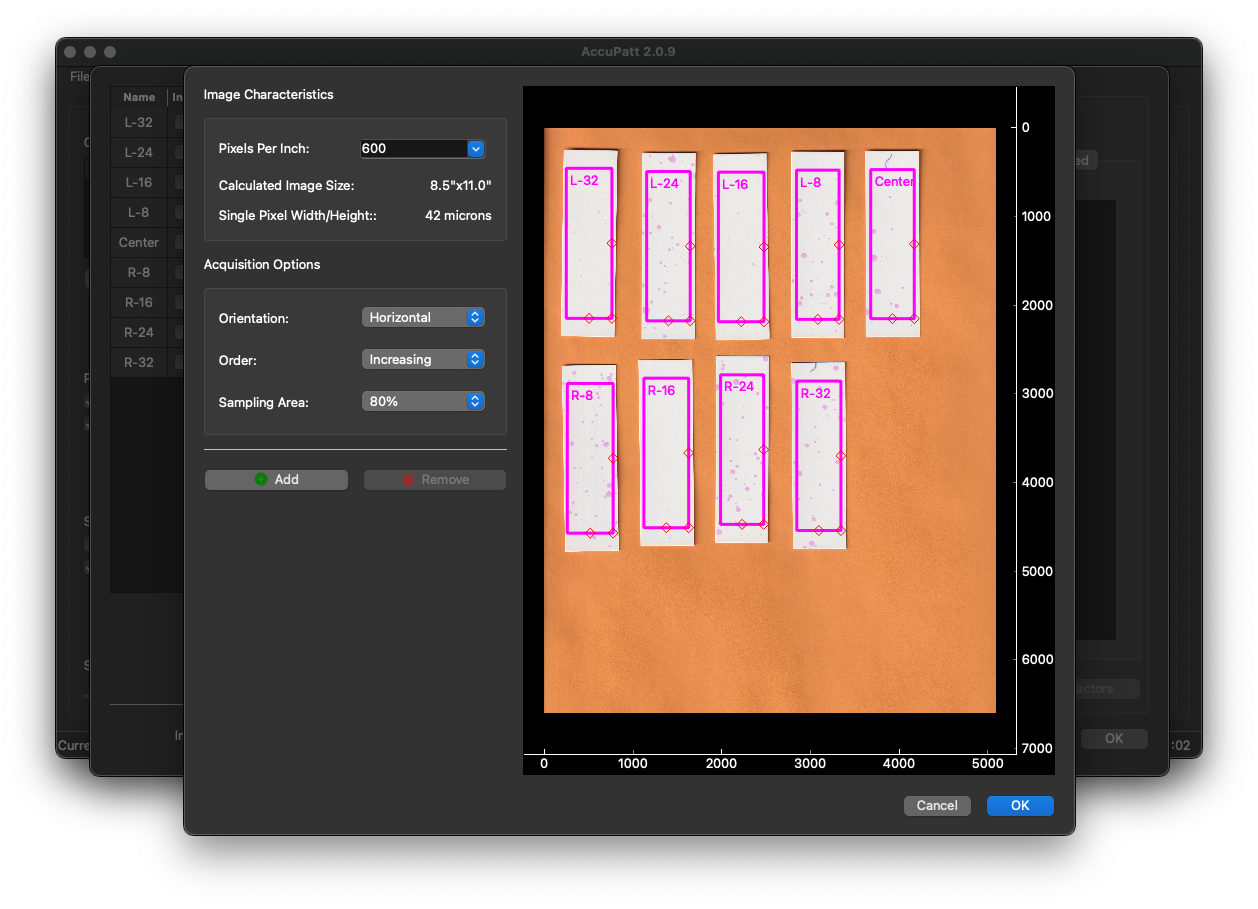
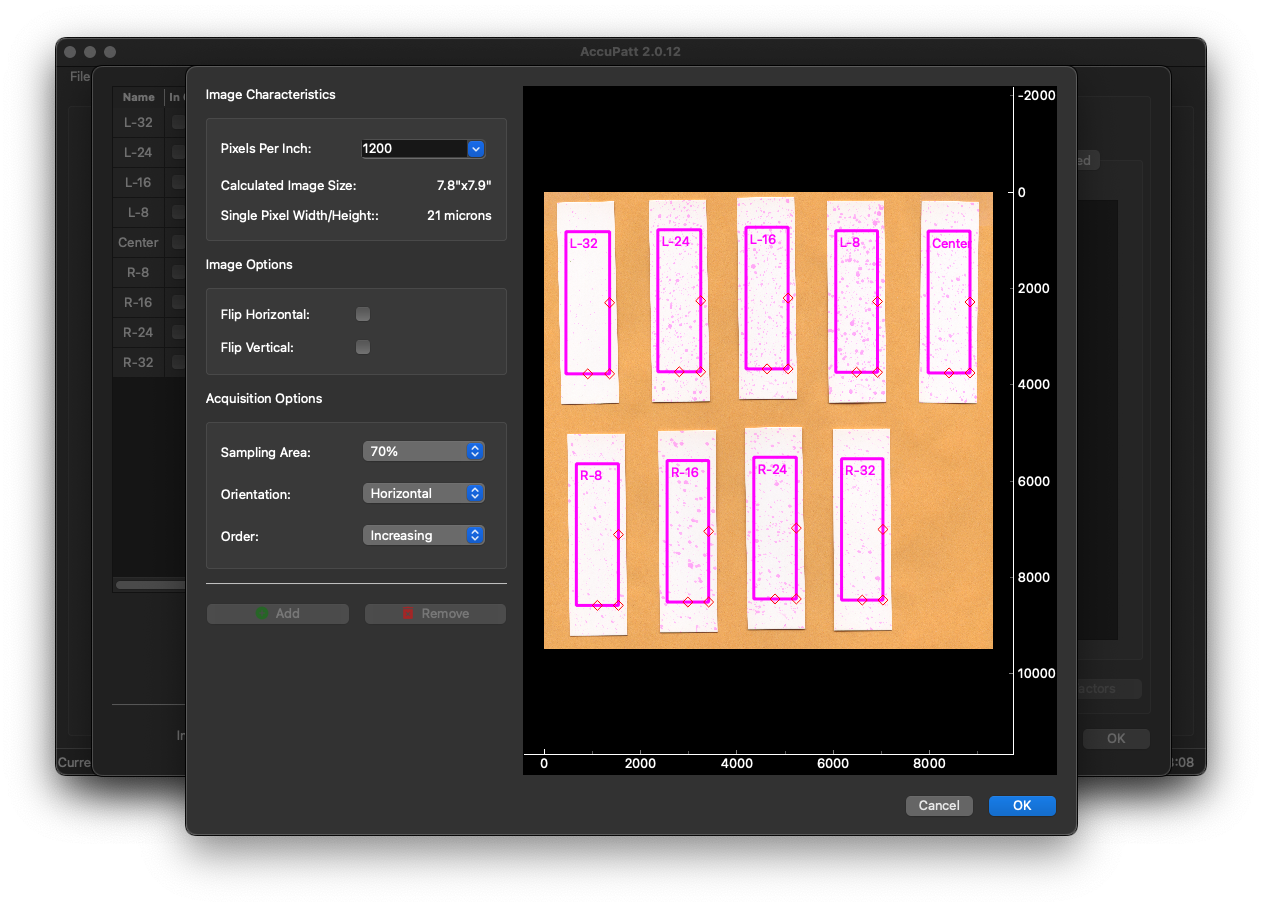
bump release 2.0.13, update user manual

diff --git a/user_manual/accupatt_2_user_manual.tex b/user_manual/accupatt_2_user_manual.tex
@@ -104,7 +104,7 @@
 
     \subsubsection{Pass Observables}
     In addition to \textbf{Application Info}, which is collected on a per-series basis, there is some observable data which is typically collected on a per-pass basis. These are frequently referred to here and in the program as \textbf{Pass Observables} since they consist solely of measured values obtained at the time of the application.\par
-    These values can be entered in several locations for the convenience of the analyst. Typically, they are entered from either the \textbf{Capture/Edit String} winodw or the \textbf{Card Manager} window for any individual pass. Alternatively, choosing \textbf{Options $\rightarrow$ Pass Manager} from the menu will open the \textbf{Pass Manager} window (Figure~\ref{fig:pass_manager}) which contains a table with rows for each pass and columns for each pass observable parameter. In addition to the editable fields for pass observables, the pass name itself may be changed here. There are also checkboxes to facilitate the inclusion/exclusion of string and/or card data from series-wise calculations and plots.\par
+    These values can be entered in several locations for the convenience of the analyst. They are entered by use of the \textbf{Pass Observables} button on the \textbf{Application Info} tab or alternately from either the \textbf{Capture/Edit String} winodw or the \textbf{Card Manager} window for any individual pass. Choosing \textbf{Options $\rightarrow$ Pass Manager} from the menu will open the \textbf{Pass Manager} window (Figure~\ref{fig:pass_manager}) which contains a table with rows for each pass and columns for each pass observable parameter. In addition to the editable fields for pass observables, the pass name itself may be changed here. There are also checkboxes to facilitate the inclusion/exclusion of string and/or card data from series-wise calculations and plots.\par
     The \textbf{Pass Manager} window also provides buttons to add or remove passes from the series. There is no functional limit to the number of passes per series. A checkbox is provided which, if checked, will update the default number of passes to add to all future series.
     \begin{figure}[hb]
         \centering
@@ -343,6 +343,7 @@
     The image may be panned or zoomed-upon. To decrease RAM consuption, large images are shown in lower resolution here, but full-resolution ROIs will be cropped out of the original image using a scaled coordinate system. The following options are available to adjust the method for which these ROI's are drawn:
     \begin{itemize}
         \item \textbf{Pixels Per Inch:} Automatically set by the image metadata, but user-adjustable. This is used in conjunction with the image pixel dimensions to show calculated image dimensions. These are provided only to allow verification by the user of proper pixels per inch setting.
+        \item \textbf{Flip Horizontal/Vertical:} Flips the entire image about the center axes. Allows for multiple configurations of physical card placement on the scanner glass. 
         \item \textbf{Orientation:} Used in conjunction with order to decide automatic assigning of names to cards. Either vertical or horizontal.
         \item \textbf{Order:} Used in conjunction with orientation to dictate automatic assigning of names to cards. Either Increaseing or decreasing.
         \item \textbf{Sampling Area:} After cards are located, the percentage of width and height to draw the rectangular ROI.
@@ -361,7 +362,7 @@
     \FloatBarrier
 
     \subsubsection{One File per Card}
-    For images which are already cropped appropriately, they can be directly uploaded to the datafile (Figure~\ref{fig:card_upload_singles}). Selected files [right column] can be dragged to alter the order to match the proper order of declared card names. An \textbf{Assert DPI} menu allows setting of image DPI as automatic (set by image metadata) or to one of several common values. This setting will affect the upload of each file.
+    For images which are already cropped appropriately, they can be directly uploaded to the datafile (Figure~\ref{fig:card_upload_singles}). Selected files [right column] can be dragged to alter the order to match the proper order of declared card names. An \textbf{Assert DPI} menu allows setting of image DPI as automatic (set by image metadata) or to one of several common values. It may also optionally be supplied via direct-type entry. This setting will affect the upload of each file.
     \begin{figure}[hb]
         \centering
         \makebox[\textwidth]{\includegraphics[width=\textwidth]{card_upload_singles.png}}
@@ -561,8 +562,6 @@
         \begin{itemize}
             \item \textbf{pass-id:} unique identifier, automatically generated
             \item \textbf{name:} editable text, default is 'Pass ' + position in passes list at creation
-            \item \textbf{string-include-in-composite:} True/False, include pass in series-wise calculations/plots
-            \item \textbf{cards-include-in-composite:} True/False, include pass in series-wise calculations/plots
             \item \textbf{observables:} 
             \begin{itemize}
                 \item \textbf{ground-speed:} float, units=[mph, kph, kn]
@@ -591,12 +590,14 @@
                 \item \textbf{smooth-window} float, x-domain window over which to apply smoothing
                 \item \textbf{smooth-order} integer, polynomial order for smoothing filter
                 \item \textbf{swath-adjusted:} float, units follow swath-target
+                \item \textbf{include-in-composite:} True/False, include pass in series-wise calculations/plots
             \end{itemize}
             \item \textbf{spray-cards:}
             \begin{itemize}
                 \item \textbf{center:} true/false, apply center-method to pass
                 \item \textbf{center-method:} text, option=[centroid, center-of-distribution]
                 \item \textbf{swath-adjusted:} float, units follow swath-target
+                \item \textbf{include-in-composite:} True/False, include pass in series-wise calculations/plots
                 \item \textbf{spray-cards:} [list]
                 \begin{itemize}
                     \item \textbf{id:} unique identifier, automatically generated
@@ -630,6 +631,18 @@
 
     \section{Changelog}
     \begin{itemize}
+        \item \textbf{2.0.13 - 16 June 2022}
+        \begin{itemize}
+            \item (fix) series info units not saving to datafile if not explicity selected
+            \item (enhancement) Defined Set Manager, create set from regular spacing, add all card process options and spread factors
+            \item (enhancement) Pass Manager, changed to column-based
+            \item (feature) Meaningfully handle missing pass observables, showing as dashes on the report and excluding from series-wise averages
+            \item (feature) Show boom width as percentage on report if both wingspan and boom-width are provided
+            \item (feature) Button to fill in only business info from a previous file.
+            \item (feature) Button to fill in pass observables from all passes in one screen
+            \item (feature) series info units retain persistent user-defined defaults
+            \item (feature) Export SAFE Log from chosen files or from chosen directory, recursively searching for all datafiles within that directory
+        \end{itemize}
         \item \textbf{2.0.12 - 8 June 2022}
         \begin{itemize}
             \item (fix) New Series not enabling main tab widget

diff --git a/accupatt/config.py b/accupatt/config.py
@@ -4,7 +4,7 @@ from PyQt6.QtCore import QSettings
 
 VERSION_MAJOR = 2
 VERSION_MINOR = 0
-VERSION_RELEASE = 12
+VERSION_RELEASE = 13
 
 # For clearning all QSettings
 def clear_all_settings():
